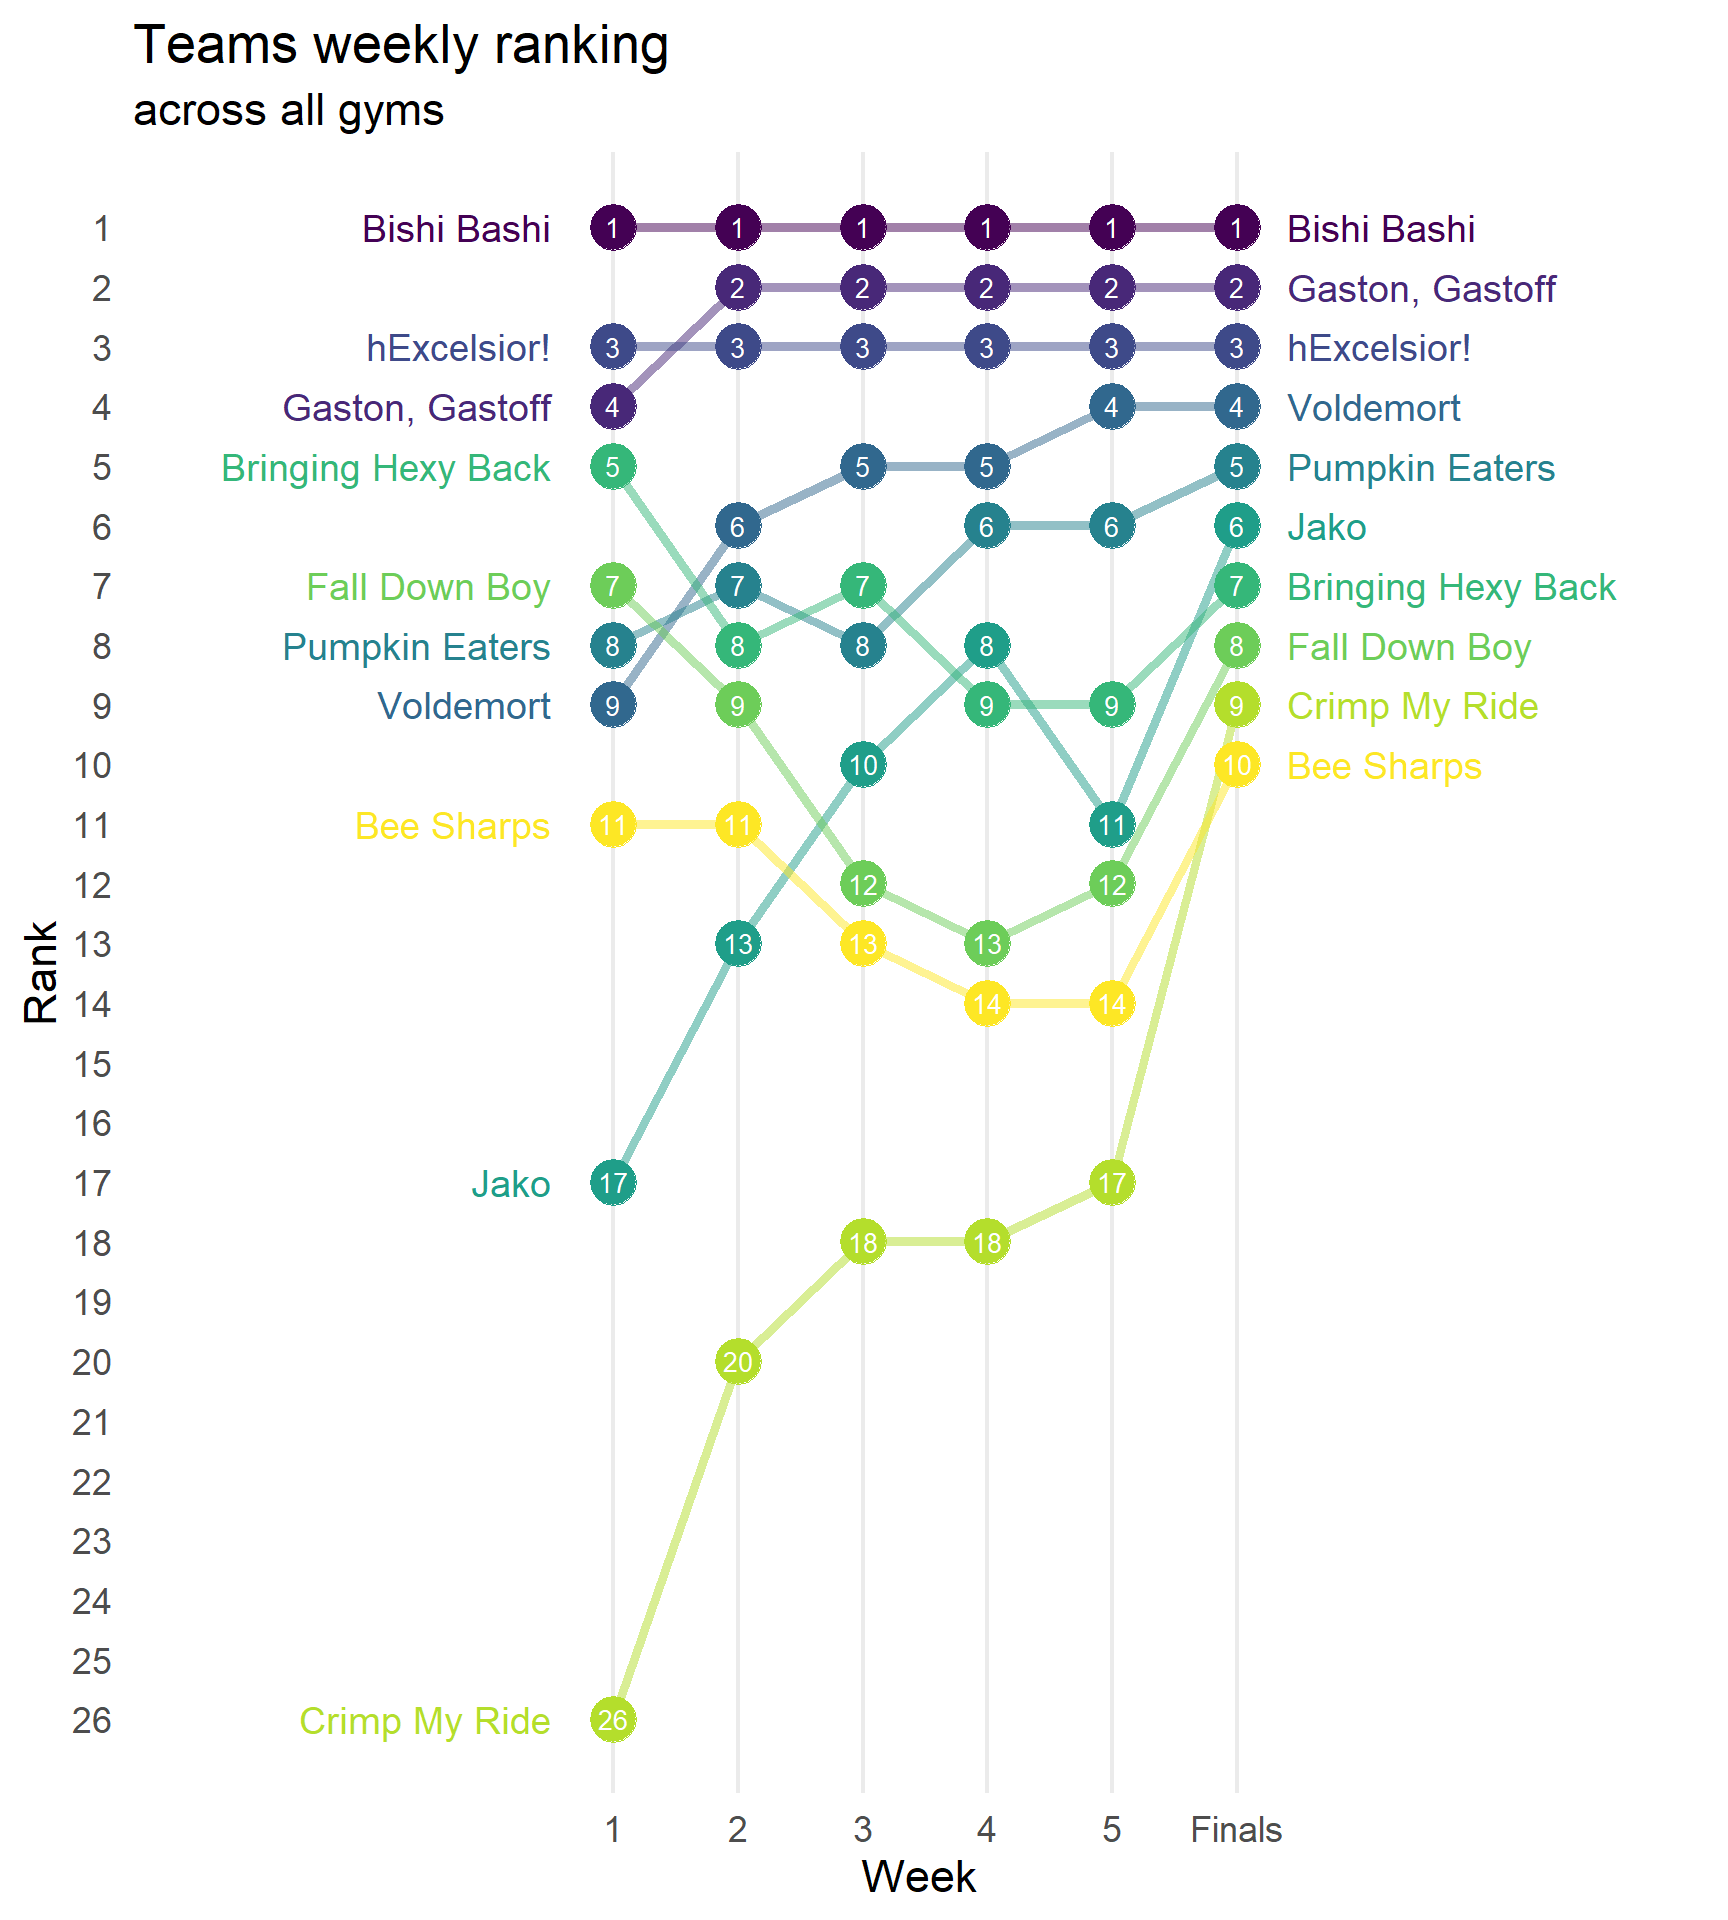
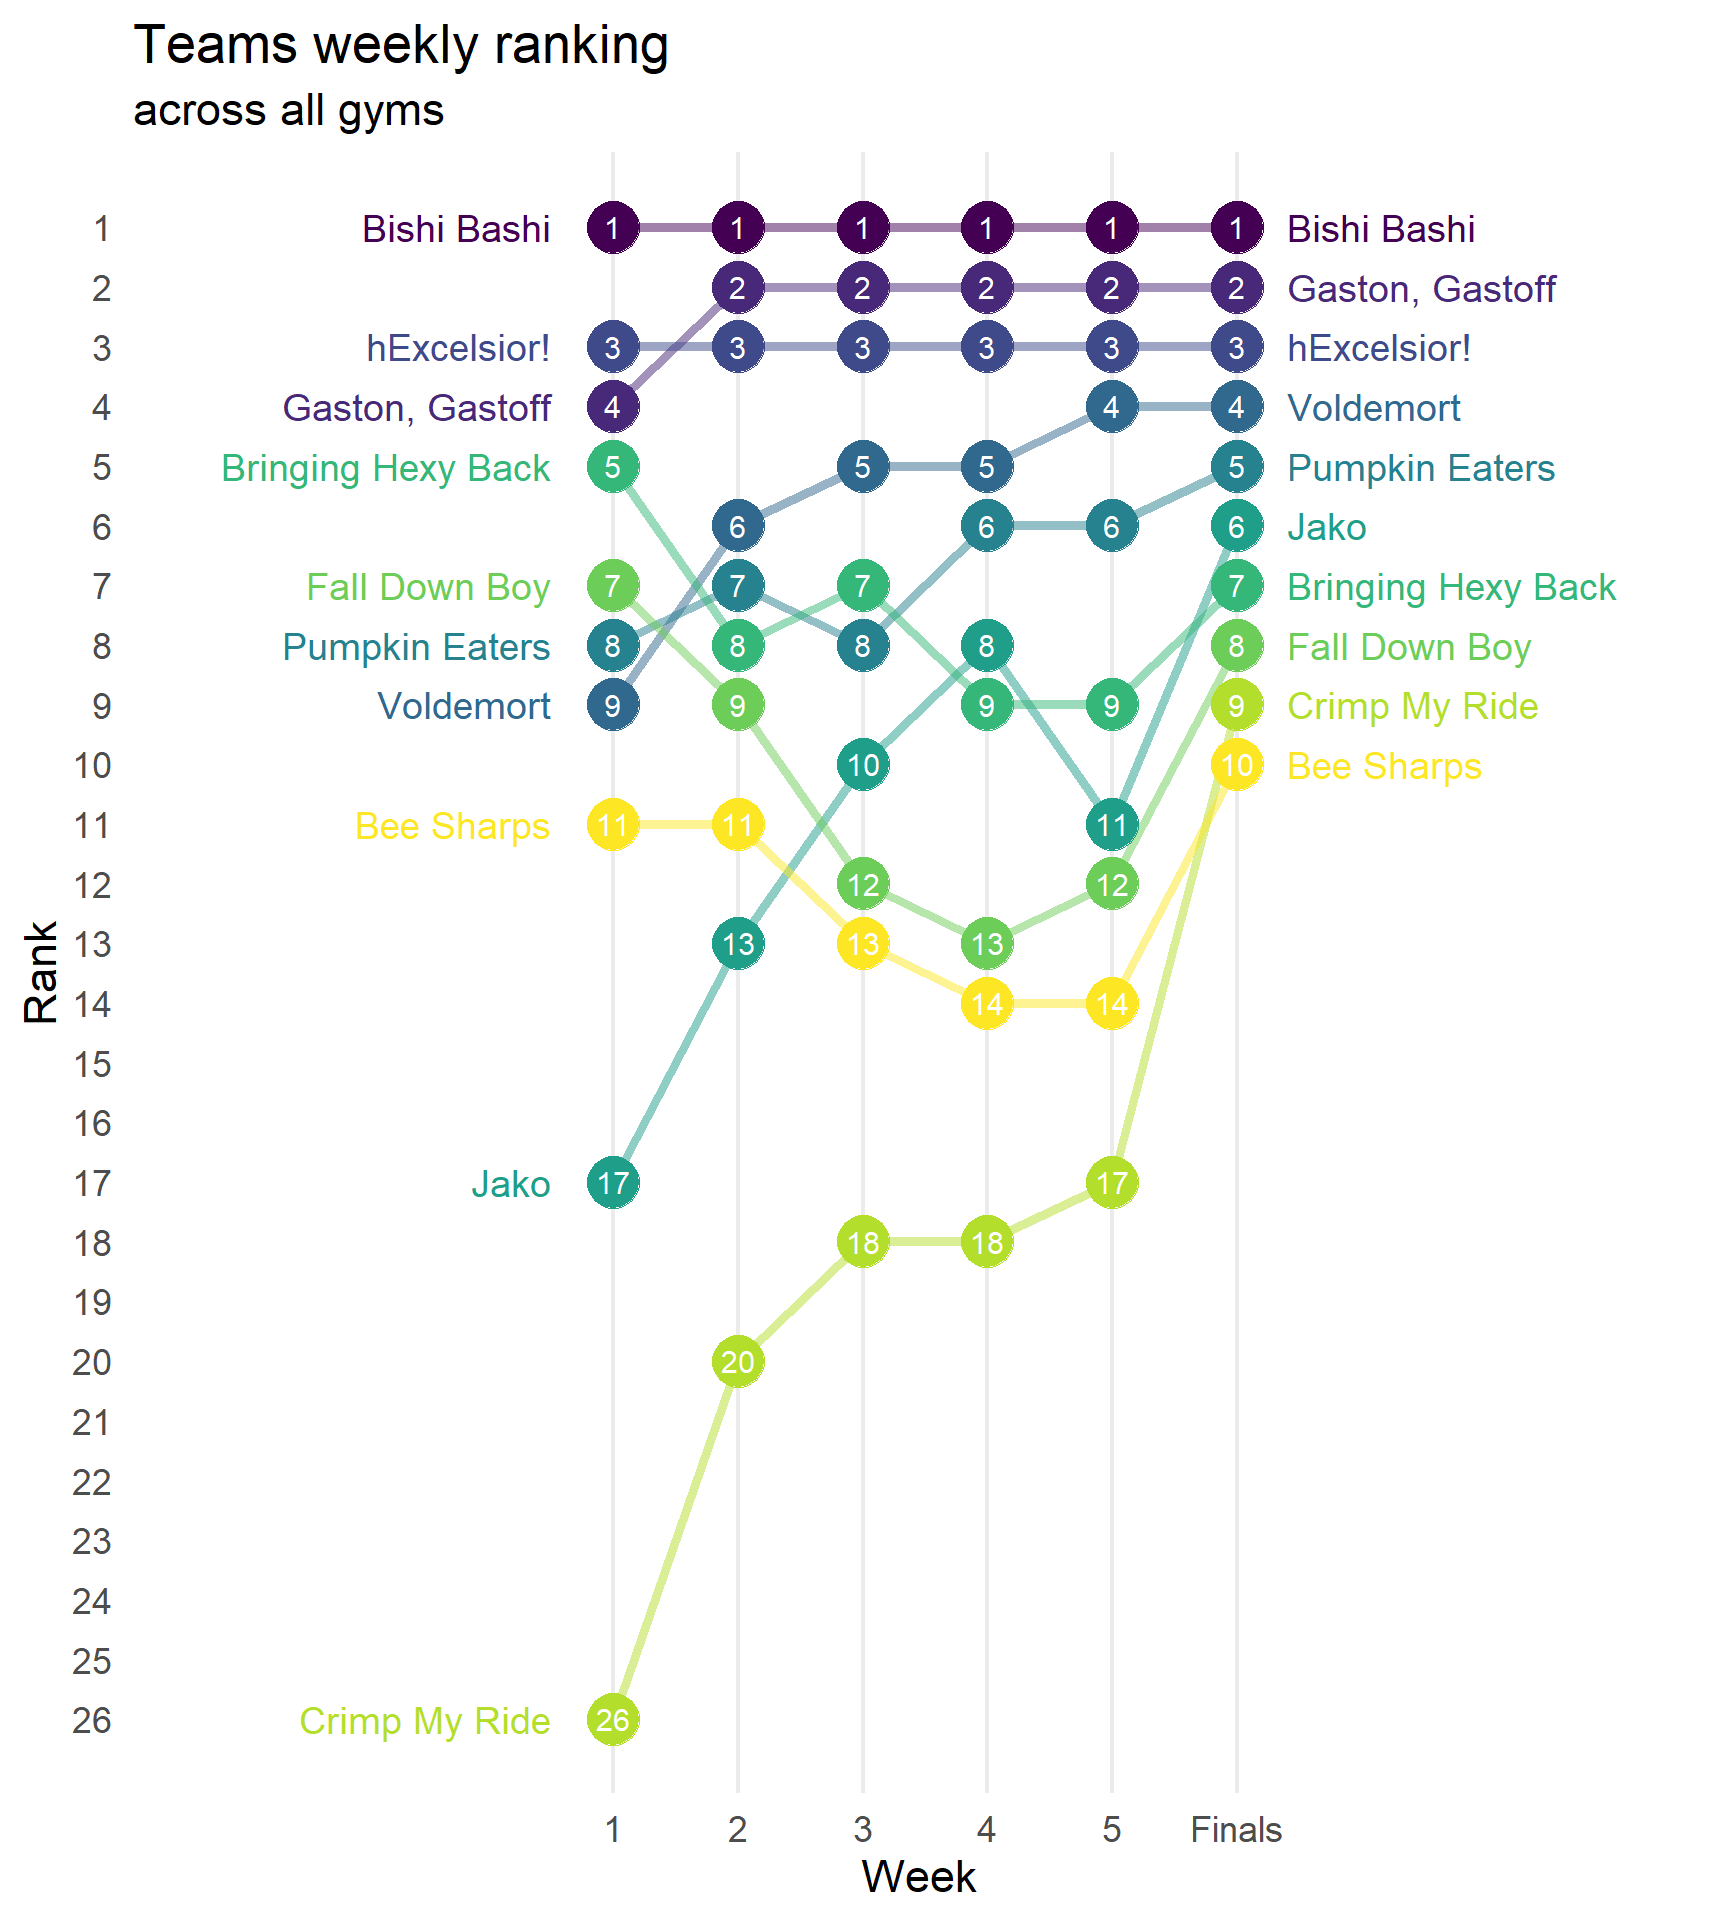
adjusting sizes

diff --git a/content/post/2019-11-14-pacific-boulder-league-2019.html b/content/post/2019-11-14-pacific-boulder-league-2019.html
@@ -15,6 +15,7 @@ authors: []
 lastmod: '2019-11-14T22:35:49-08:00'
 featured: no
 image:
+  featuredImage: "featured.PNG"
   caption: ''
   focal_point: ''
   preview_only: no
@@ -170,7 +171,7 @@ p.caption {
 </ol>
 However, even with these accomodations, <strong>some teams did not participate every week:</strong>
 <div class="figure"><span id="fig:unnamed-chunk-5"></span>
-<img src="/post/2019-11-14-pacific-boulder-league-2019_files/figure-html/unnamed-chunk-5-1.png" alt="Note: I interpret that when a team did not hand in their score, they simply were unable to get enough team members to meet at the same time that week." width="624" />
+<img src="/post/2019-11-14-pacific-boulder-league-2019_files/figure-html/unnamed-chunk-5-1.png" alt="Note: I interpret that when a team did not hand in their score, they simply were unable to get enough team members to meet at the same time that week." width="528" />
 <p class="caption">
 Figure 1: Note: I interpret that when a team did not hand in their score, they simply were unable to get enough team members to meet at the same time that week.
 </p>
